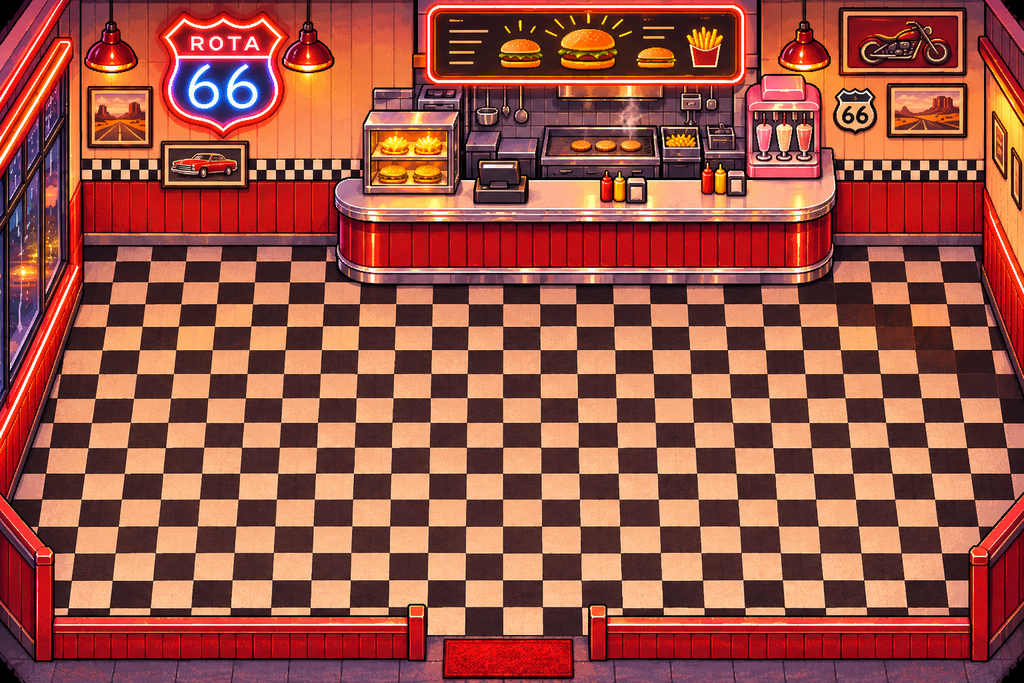
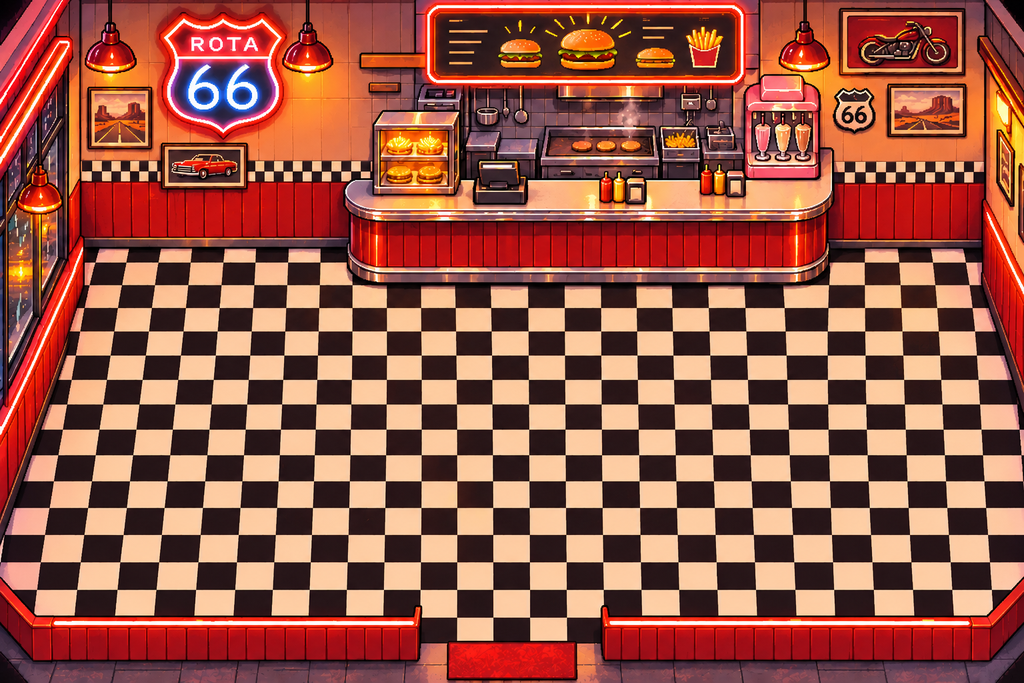
Rota 66 v2: fundo com o chão corrigido, sombras no chão e posições iguais ao original
Claude-Session: https://claude.ai/code/session_01PDyLU6Huw5amytFREh1vA2

diff --git a/src/regions/piabeta/rota66.map.ts b/src/regions/piabeta/rota66.map.ts
@@ -221,40 +221,43 @@ export const rota66Map: MapDef = {
   // Versão anterior (cenário pintado inteiro com recortes) em backups/rota66-v1/.
   blocks: [
     // paredes: fundo, janela à esquerda (inclinada), parede da direita, muretinha de baixo
-    R(0, 0, 1536, 365),
-    R(0, 0, 118, 500),
-    R(0, 500, 90, 620),
-    R(0, 620, 60, 720),
+    R(0, 0, 1536, 370),
+    R(0, 0, 125, 500),
+    R(0, 500, 95, 620),
+    R(0, 620, 65, 720),
     R(0, 720, 40, 830),
-    R(0, 830, 85, 1100),
-    R(1472, 0, 1536, 520),
-    R(1495, 520, 1536, 680),
-    R(1515, 680, 1536, 830),
-    R(1455, 830, 1536, 1100),
-    R(0, 918, 645, 1100),
-    R(885, 918, 1536, 1100),
-    R(640, 790, 895, 1100), // porta de vidro (ninguém fica em cima dela)
+    R(0, 830, 45, 1100),
+    R(1475, 0, 1536, 520),
+    R(1498, 520, 1536, 700),
+    R(1512, 700, 1536, 900),
+    R(1455, 900, 1536, 1100),
+    R(0, 918, 630, 1100),
+    R(905, 918, 1536, 1100),
+    R(630, 780, 905, 1100), // porta de vidro (ninguém fica em cima dela)
     // balcão + banquetas, bomba de gasolina, planta e jukebox
-    R(500, 300, 1250, 425),
+    R(515, 300, 1250, 425),
     R(595, 425, 1160, 452),
-    R(410, 330, 500, 398),
-    R(1245, 330, 1310, 412),
+    R(412, 330, 498, 398),
+    R(1252, 330, 1312, 414),
     R(1300, 330, 1442, 432),
     // mesinhas da janela (a de baixo é a "mesa para dois")
-    R(115, 380, 305, 475),
-    R(80, 520, 285, 648),
+    R(125, 385, 300, 475),
+    R(90, 525, 285, 650),
     // cabines do meio e de baixo (com a divisória de vidro na frente)
-    R(430, 490, 724, 668),
-    R(873, 490, 1167, 668),
-    R(108, 725, 408, 925),
-    R(1138, 725, 1438, 925),
+    R(434, 490, 723, 668),
+    R(876, 490, 1164, 668),
+    R(108, 725, 408, 930),
+    R(1140, 725, 1435, 930),
+    R(45, 860, 540, 930),
+    R(1000, 860, 1458, 930),
     // plantas
     R(355, 625, 412, 664),
     R(1157, 625, 1214, 666),
     R(25, 745, 95, 782),
-    R(1445, 725, 1515, 762),
-    R(540, 885, 600, 922),
-    R(920, 885, 980, 922),
+    R(1455, 705, 1525, 745),
+    R(1440, 755, 1505, 792),
+    R(545, 940, 625, 990),
+    R(910, 940, 990, 990),
   ],
 
   steam: [{ x: 880, y: 192 }, { x: 918, y: 190 }, { x: 958, y: 192 }],
@@ -262,27 +265,29 @@ export const rota66Map: MapDef = {
 
   // Objetos: x = centro, y = base (px da arte original), w = largura. Cada um com a sua profundidade.
   objects: [
-    { key: 'r66-bomba', x: 455, y: 396, w: 92 },
-    ...[629, 753, 876, 1000, 1127].map((x) => ({ key: 'r66-banqueta', x, y: 450, w: 62 })),
-    { key: 'r66-planta', x: 1278, y: 412, w: 74, fade: true },
-    { key: 'r66-jukebox', x: 1370, y: 432, w: 140 },
-    { key: 'r66-mesinha', x: 210, y: 474, w: 190 },
-    { key: 'r66-mesinha', x: 182, y: 648, w: 205 },
-    { key: 'r66-cabine', x: 577, y: 668, w: 295 },
-    { key: 'r66-cabine', x: 1020, y: 668, w: 295 },
-    { key: 'r66-cabine', x: 258, y: 905, w: 300 },
-    { key: 'r66-cabine', x: 1288, y: 905, w: 300 },
-    { key: 'r66-divisoria', x: 258, y: 926, w: 330 },
-    { key: 'r66-divisoria', x: 1288, y: 926, w: 330 },
-    { key: 'r66-planta', x: 383, y: 664, w: 80, fade: true },
-    { key: 'r66-planta', x: 1185, y: 666, w: 80, fade: true },
-    { key: 'r66-planta', x: 60, y: 782, w: 80, fade: true },
-    { key: 'r66-planta', x: 1480, y: 762, w: 80, fade: true, flip: true },
-    { key: 'r66-planta', x: 570, y: 922, w: 85, fade: true },
-    { key: 'r66-planta', x: 950, y: 922, w: 85, fade: true, flip: true },
-    ...[220, 450, 1090, 1320].map((x) => ({ key: 'r66-floreira', x, y: 1022, w: 130 })),
+    { key: 'r66-bomba', x: 455, y: 396, w: 94 },
+    ...[629, 753, 876, 1000, 1127].map((x) => ({ key: 'r66-banqueta', x, y: 448, w: 66, shadow: 0.8 })),
+    { key: 'r66-planta', x: 1283, y: 414, w: 76, fade: true, shadow: 0.7 },
+    { key: 'r66-jukebox', x: 1370, y: 432, w: 144 },
+    { key: 'r66-mesinha', x: 212, y: 474, w: 182 },
+    { key: 'r66-mesinha', x: 188, y: 650, w: 200 },
+    { key: 'r66-cabine', x: 578, y: 668, w: 290 },
+    { key: 'r66-cabine', x: 1020, y: 668, w: 290 },
+    { key: 'r66-cabine', x: 258, y: 905, w: 295 },
+    { key: 'r66-cabine', x: 1288, y: 905, w: 290 },
+    { key: 'r66-planta', x: 383, y: 664, w: 88, fade: true, shadow: 0.7 },
+    { key: 'r66-planta', x: 1185, y: 666, w: 88, fade: true, shadow: 0.7 },
+    { key: 'r66-planta', x: 60, y: 782, w: 88, fade: true, shadow: 0.7 },
+    { key: 'r66-planta', x: 1490, y: 745, w: 82, fade: true, flip: true, shadow: 0.7 },
+    { key: 'r66-planta', x: 1470, y: 792, w: 88, fade: true, shadow: 0.7 },
+    // divisórias de vidro na frente das cabines de baixo (duas de cada lado, emendadas)
+    ...[160, 385, 1115, 1345].map((x) => ({ key: 'r66-divisoria', x, y: 932, w: 228, shadow: false as const })),
+    // floreiras em cima da muretinha e plantas dos lados da porta
+    ...[213, 427, 1100, 1280].map((x) => ({ key: 'r66-floreira', x, y: 972, w: 134, shadow: false as const })),
+    { key: 'r66-planta', x: 585, y: 988, w: 100, fade: true, shadow: 0.7 },
+    { key: 'r66-planta', x: 950, y: 988, w: 100, fade: true, flip: true, shadow: 0.7 },
     // porta de vidro: sempre por cima de quem encosta nela, transparente
-    { key: 'r66-porta', x: 765, y: 1000, w: 245, front: true },
+    { key: 'r66-porta', x: 768, y: 1002, w: 268, front: true, shadow: false },
   ],
 
   hotspots: [
@@ -300,7 +305,7 @@ export const rota66Map: MapDef = {
   },
   exits: [
     {
-      rect: R(645, 772, 890, 790), // encostar na porta de vidro = sair
+      rect: R(640, 760, 895, 780), // encostar na porta de vidro = sair
       toMap: 'piabeta-rota66-fora',
       toSpawn: 'from-rota66',
       sfx: 'door',

diff --git a/src/world/MapBuilder.ts b/src/world/MapBuilder.ts
@@ -217,8 +217,31 @@ export function buildMap(scene: Phaser.Scene, def: MapDef): BuiltMap {
   }
 
   // Objetos soltos (folha de objetos): cada um com a própria profundidade, sem recorte do cenário.
+  if ((def.objects ?? []).length && !scene.textures.exists('fx-shadow')) {
+    // sombra de contato: oval escuro e macio, pra o objeto "pisar" no chão
+    const t = scene.textures.createCanvas('fx-shadow', 64, 32)!;
+    const c = t.getContext();
+    const g = c.createRadialGradient(32, 16, 2, 32, 16, 32);
+    g.addColorStop(0, 'rgba(20,6,10,0.75)');
+    g.addColorStop(0.55, 'rgba(20,6,10,0.45)');
+    g.addColorStop(1, 'rgba(20,6,10,0)');
+    c.save();
+    c.scale(1, 0.5);
+    c.fillStyle = g;
+    c.fillRect(0, 0, 64, 64);
+    c.restore();
+    t.refresh();
+  }
   for (const ob of def.objects ?? []) {
     if (!scene.textures.exists(ob.key)) continue;
+    if (ob.shadow !== false) {
+      const sw = ((ob.w ?? 60) * (ob.shadow ?? 1.05)) / 3;
+      scene.add
+        .image(ob.x / 3, ob.y / 3 - 1, 'fx-shadow')
+        .setDisplaySize(sw, Math.max(4, sw * 0.22))
+        .setDepth(-4)
+        .setAlpha(0.8);
+    }
     const img = scene.add.image(ob.x / 3, ob.y / 3, ob.key).setOrigin(0.5, 1);
     if (ob.w) img.setScale(ob.w / 3 / img.width);
     else img.setScale(1 / RENDER_SCALE);

diff --git a/src/world/MapTypes.ts b/src/world/MapTypes.ts
@@ -105,7 +105,7 @@ export interface MapDef {
    * `x` = centro, `y` = base (onde o objeto encosta no chão). `w` = largura desejada (px da arte).
    * A colisão continua nos `blocks`.
    */
-  objects?: { key: string; x: number; y: number; w?: number; base?: number; fade?: boolean; front?: boolean; tall?: boolean; flip?: boolean; when?: () => boolean }[];
+  objects?: { key: string; x: number; y: number; w?: number; base?: number; /** sombra no chão (largura relativa) ou false */ shadow?: number | false; fade?: boolean; front?: boolean; tall?: boolean; flip?: boolean; when?: () => boolean }[];
   /** Colisões extras em retângulos (unidades de tile, fracionários). Ideal para cenários pintados. */
   blocks?: TileRect[];
   /**
